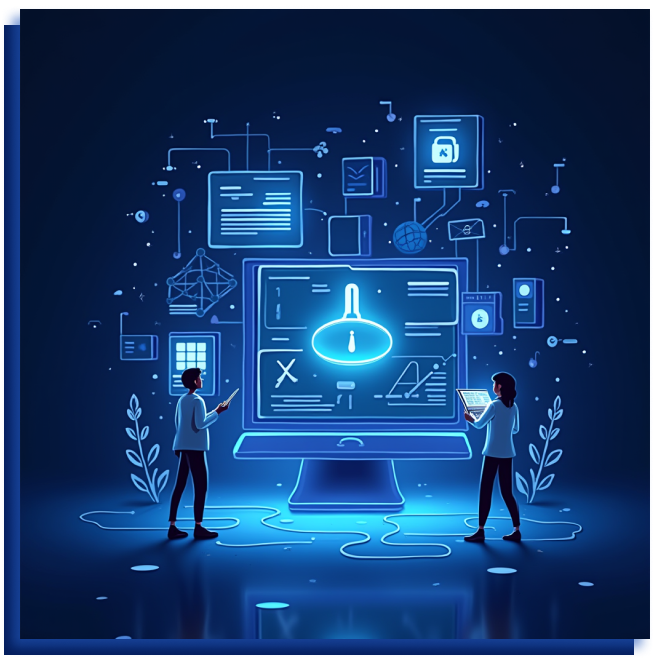
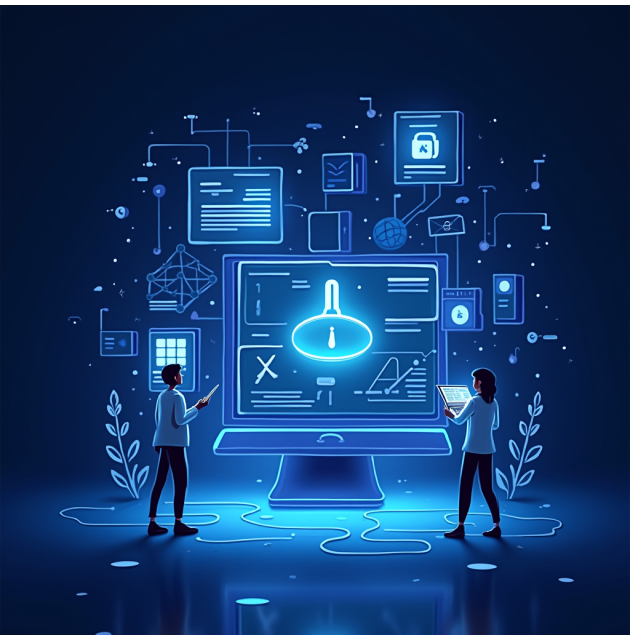
adapted advantage and team sections

diff --git a/src/scss/components/advantages/advantages.scss b/src/scss/components/advantages/advantages.scss
@@ -6,32 +6,50 @@
   }
 
   &__image {
-    @extend %imageBlueLine;
+    flex: 1 1 49.21875%;
+
+    & img {
+      max-width: 100%;
+      height: 100%;
+      object-fit: cover;
+    }
   }
 
   &__text {
     @include flexColumn;
-    max-width: 570px;
+    flex: 1 1 50.78125%;
+    margin: 0 0 0 30px;
   }
 
   &__title {
     @extend %sectionTitle;
   }
 
+  &__list {
+    padding: 0;
+  }
+
   &__item {
+    @include textBase($fz: 18px, $lh: 146%);
     position: relative;
-    margin-bottom: 16px;
-    margin-left: 8px;
+    margin-left: 46px;
+
+    &:not(:last-child) {
+      margin-bottom: 16px;
+    }
+
+
     &::before {
       content: "";
       position: absolute;
-      border-color: $primary70-color;
-      border-style: solid;
-      border-width: 8px;
-      top: 17px;
-      left: -29px;
-      margin-top: -16px;
+      background-color: $primary70-color;
+      width: 16px;
+      height: 16px;
       border-radius: 50%;
+      left: -26px;
+      top: 5px;
     }
+
   }
+
 }

diff --git a/src/scss/components/advantages/advantages-media.scss b/src/scss/components/advantages/advantages-media.scss
@@ -1,0 +1,59 @@
+@media screen and (max-width: $breakpoint-lg) {
+  .advantages {
+    margin-bottom: 100px;
+
+    &__content {
+      display: flex;
+      flex-direction: column-reverse;
+    }
+
+    &__image {
+      display: none;
+    }
+
+    &__text {
+      flex: 1 1 100%;
+      margin: 0;
+      padding: 0 0 237px 0;
+    }
+
+    &__title {
+      font-size: 35px;
+      line-height: 130%;
+      text-align: left;
+    }
+
+    &__item {
+      @include textBase($fz: 16px, $lh: 125%);
+      margin-left: 42px;
+
+      &::before {
+        width: 12px;
+        height: 12px;
+        left: -22px;
+      }
+    }
+  }
+}
+
+@media screen and (max-width: 576px) {
+  .advantages {
+
+    &__title {
+      font-size: 28px;
+      line-height: 118%;
+    }
+
+    &__item {
+      @include textBase($fz: 14px, $lh: 130%);
+      margin: 0 0 16px 42px;
+
+      &::before {
+        width: 12px;
+        height: 12px;
+        left: -22px;
+      }
+    }
+  }
+}
+

diff --git a/src/scss/components/team/team-media.scss b/src/scss/components/team/team-media.scss
@@ -1,0 +1,52 @@
+@media screen and (max-width: $breakpoint-lg) {
+  .team {
+    margin-bottom: 115px;
+  }
+
+  .team-title {
+    font-size: 35px;
+    line-height: 130%;
+  }
+
+  .team-swiper {
+
+    &__img {
+      width: 274px;
+      height: 274px;
+    }
+
+  }
+
+  .team-inner {
+
+    &__subtitle a {
+      @include textBase($fz: 18px, $fw: $font-medium, $lh: 135%);
+    }
+
+    &__desc {
+      @include textBase($fz: 15px, $fw: $font-regular, $lh: 153%);
+    }
+  }
+
+  .team-pagination {
+    display: none;
+  }
+}
+
+@media screen and (max-width: $breakpoint-md) {
+  .team-title {
+    font-size: 28px;
+    line-height: 118%;
+  }
+
+  .team-inner {
+
+    &__subtitle a {
+      @include textBase($fz: 16px, $fw: $font-medium, $lh: 128%);
+    }
+
+    &__desc {
+      @include textBase($fz: 14px, $fw: $font-regular, $lh: 150%);
+    }
+  }
+}

diff --git a/src/pages/components/advantages.html b/src/pages/components/advantages.html
@@ -1,11 +1,12 @@
 <section class="advantages">
   <div class="container">
     <div class="advantages__content">
-      <img
-        class="advantages__image"
-        src="./assets/advantages.png"
-        alt="Advantages picture"
-      />
+      <div class="advantages__image img-shadow">
+        <img
+          src="./assets/advantages.jpg"
+          alt="Advantages picture"
+        />
+      </div>
 
       <article class="advantages__text">
         <h2 class="advantages__title">Our advantages</h2>

diff --git a/src/js/script.js b/src/js/script.js
@@ -4,6 +4,24 @@ const teamSwiperBlock = new Swiper(".team-swiper", {
   loop: false,
   spaceBetween: 15,
 
+  breakpoints: {
+    // when window width is >= 320px
+    320: {
+      slidesPerView: 1,
+      spaceBetween: 0,
+    },
+
+    768: {
+      slidesPerView: 2,
+      spaceBetween: 5,
+    },
+
+    1024: {
+      slidesPerView: 3,
+      spaceBetween: 10,
+    },
+  },
+
   navigation: {
     nextEl: ".swiper-button-next",
     prevEl: ".swiper-button-prev",

diff --git a/src/scss/common/common.scss b/src/scss/common/common.scss
@@ -48,3 +48,15 @@ img {
     max-width: 1310px;
   }
 }
+
+.img-shadow {
+  box-shadow: -16px 16px 0 0 $primary70-color, -8px 8px 12px 0 rgba(33, 87, 187, 0.6);
+
+  @media screen and (max-width: $breakpoint-xxl) {
+    box-shadow: -8px 8px 0 0 $primary70-color, -4px 4px 10px 0 rgba(33, 87, 187, 0.6);
+  }
+
+  @media screen and (max-width: $breakpoint-md) {
+    box-shadow: -4px 4px 0 0 $primary70-color, -2px 2px 8px 0 rgba(33, 87, 187, 0.6);
+  }
+}

diff --git a/src/scss/components/team/team.scss b/src/scss/components/team/team.scss
@@ -5,6 +5,7 @@
 
 .team-title {
   @extend %sectionTitle;
+  margin-bottom: 20px;
 }
 
 .team-swiper {
@@ -20,6 +21,7 @@
     height: 305px;
     margin-bottom: 6px;
   }
+
   &__slider {
     flex: 0 0 auto;
   }
